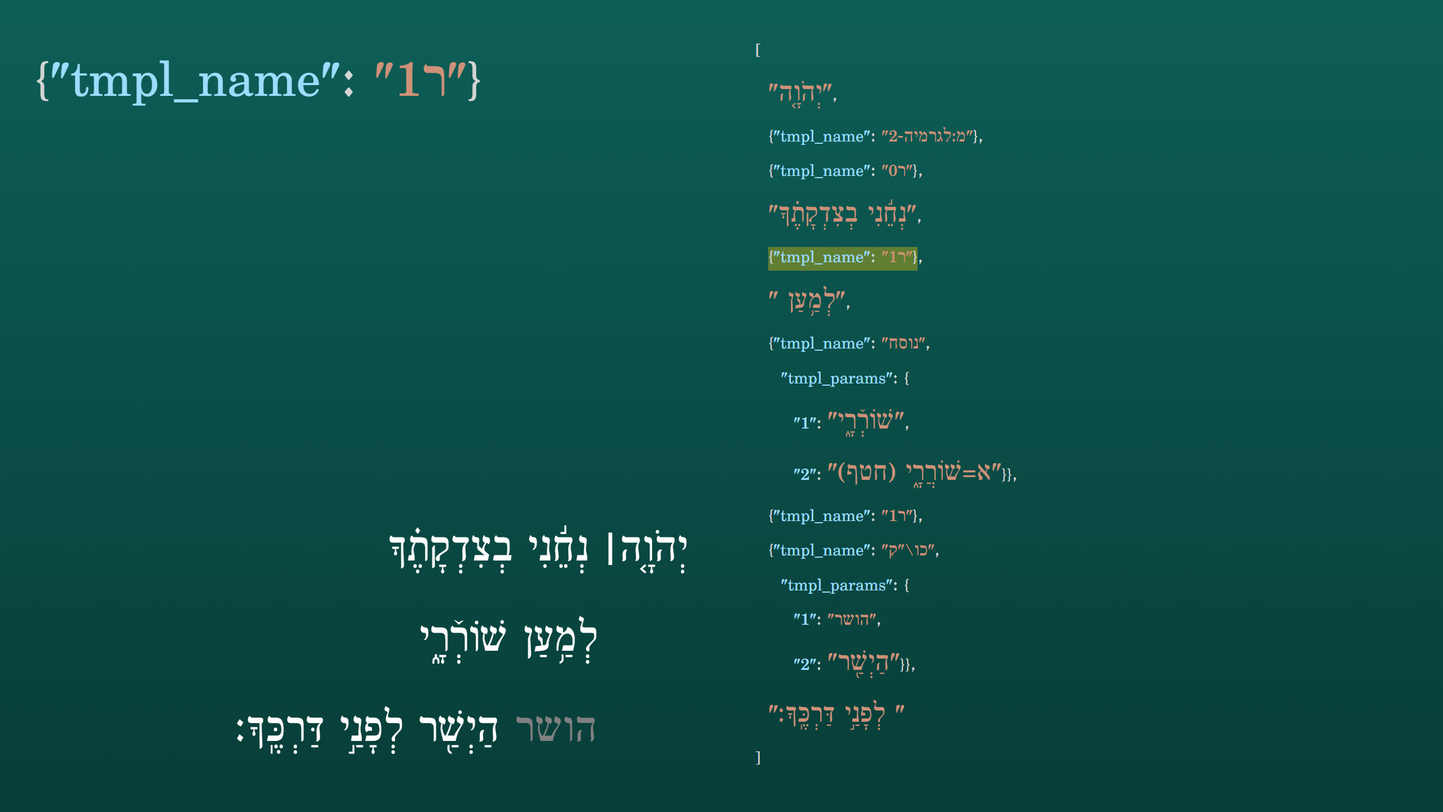
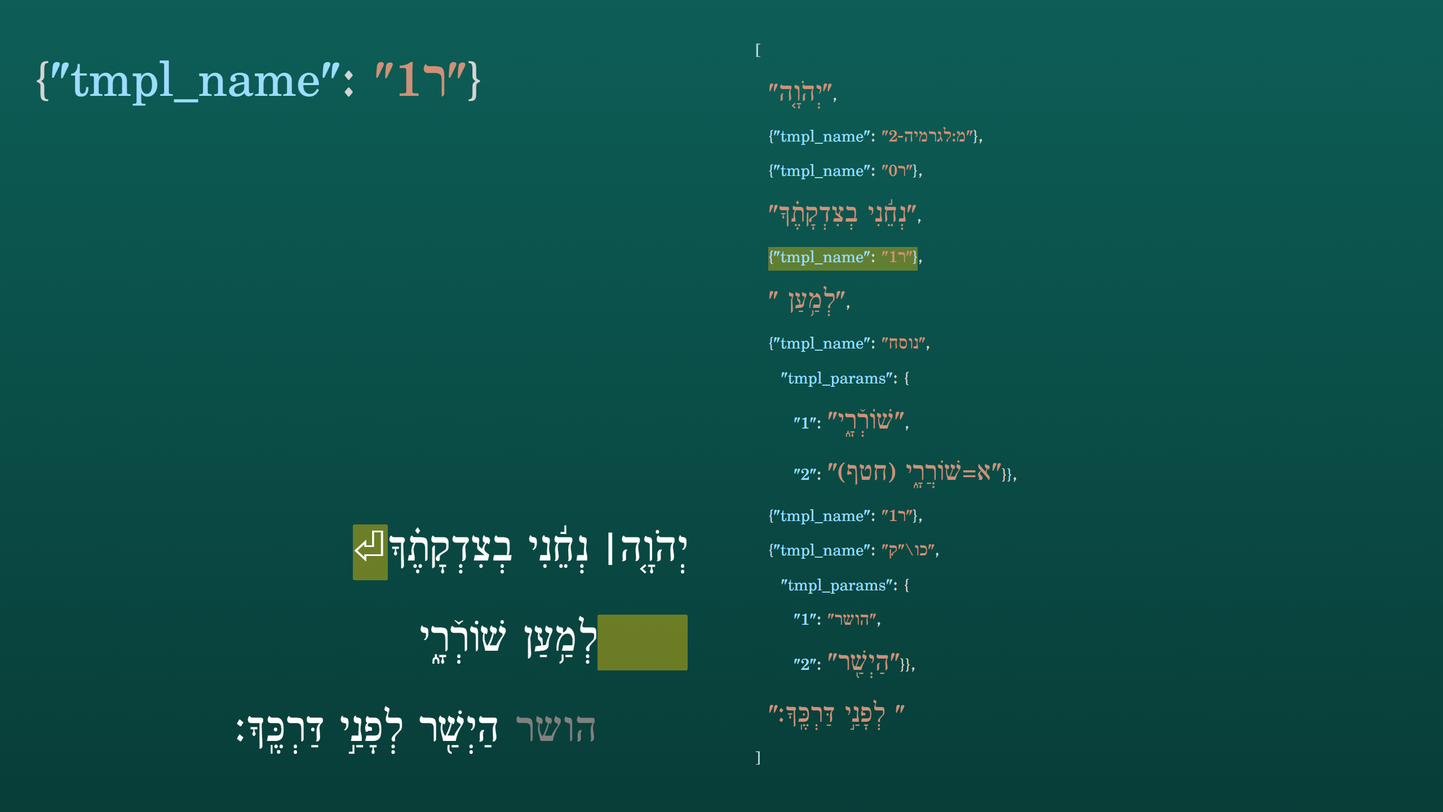
slide: add companion_raw_replacements; highlight ⏎ and indent at step 5
Add a companion_raw_replacements mechanism to json_snippet_browser so
a multistep slide spec can apply raw HTML substitutions to the companion
HTML for a specific step.

Use it in the Psalm 5:9 mpplus deck: the ר1 step (step 5) now highlights
the return symbol (⏎) and the indent span, making the line-break template
visible to the viewer.

Also update the companion HTML across all steps to use an indent span
(&emsp;&emsp;) for the second line instead of padding-right, and add a
hidden return-sym span at the end of the first line. Regenerate the
interactive HTML and the step-5 PNG accordingly.

Changed region(s): [[0.4062, 0.75, 0.5, 0.8438], [0.2188, 0.625, 0.2812, 0.7188]]

diff --git a/misc/mam-is-a-dataset/img-sources/slide-psalm-5v9-mpplus-interactive.html b/misc/mam-is-a-dataset/img-sources/slide-psalm-5v9-mpplus-interactive.html
@@ -59,8 +59,8 @@
 </style>
 </head>
 <body>
-<div class="step" data-step="0"><div class="col"><div class="companion-html"><div>יְהֹוָ֤ה&thinsp;<span style="font-weight: bold;">׀</span>&nbsp;נְחֵ֬נִי בְצִדְקָתֶ֗ךָ</div>
-<div style="padding-right: 2em;">לְמַ֥עַן שׁוֹרְﬞרָ֑י</div>
+<div class="step" data-step="0"><div class="col"><div class="companion-html"><div>יְהֹוָ֤ה&thinsp;<span style="font-weight: bold;">׀</span>&nbsp;נְחֵ֬נִי בְצִדְקָתֶ֗ךָ<span class="return-sym" style="display:none;">⏎</span></div>
+<div><span class="indent">&emsp;&emsp;</span>לְמַ֥עַן שׁוֹרְﬞרָ֑י</div>
 <div style="padding-right: 2em;"><span style="color:Gray;">הושר</span> הַיְשַׁ֖ר לְפָנַ֣י דַּרְכֶּֽךָ׃</div></div></div><div class="col" style="justify-content:flex-start"><pre><span style="color:#d4d4d4;">[</span><span style="color:#d4d4d4;">
   </span><bdi><span style="color:#ce9178; font-size:51px; font-feature-settings:'ss03'">"יְהֹוָ֤ה"</span></bdi><span style="color:#d4d4d4;">,</span><span style="color:#d4d4d4;">
   </span><span style="color:#d4d4d4;">{</span><span style="color:#9cdcfe;">"tmpl_name"</span><span style="color:#d4d4d4;">:</span><span style="color:#d4d4d4;"> </span><bdi><span style="color:#ce9178;">"מ:לגרמיה-2"</span></bdi><span style="color:#d4d4d4;">},</span><span style="color:#d4d4d4;">
@@ -80,8 +80,8 @@
   </span><bdi><span style="color:#ce9178; font-size:51px; font-feature-settings:'ss03'">" לְפָנַ֣י דַּרְכֶּֽךָ׃"</span></bdi><span style="color:#d4d4d4;">
 </span><span style="color:#d4d4d4;">]</span><span style="color:#d4d4d4;">
 </span></pre></div></div>
-<div class="step" data-step="1"><div class="col" style="flex:2;flex-direction:column;justify-content:space-between;align-items:flex-start"><pre><bdi><span style="color:#ce9178; font-size:102px; font-feature-settings:'ss03'">"יְהֹוָ֤ה"</span></bdi></pre><div class="companion-html"><div><span class="hl">יְהֹוָ֤ה</span>&thinsp;<span style="font-weight: bold;">׀</span>&nbsp;נְחֵ֬נִי בְצִדְקָתֶ֗ךָ</div>
-<div style="padding-right: 2em;">לְמַ֥עַן שׁוֹרְﬞרָ֑י</div>
+<div class="step" data-step="1"><div class="col" style="flex:2;flex-direction:column;justify-content:space-between;align-items:flex-start"><pre><bdi><span style="color:#ce9178; font-size:102px; font-feature-settings:'ss03'">"יְהֹוָ֤ה"</span></bdi></pre><div class="companion-html"><div><span class="hl">יְהֹוָ֤ה</span>&thinsp;<span style="font-weight: bold;">׀</span>&nbsp;נְחֵ֬נִי בְצִדְקָתֶ֗ךָ<span class="return-sym" style="display:none;">⏎</span></div>
+<div><span class="indent">&emsp;&emsp;</span>לְמַ֥עַן שׁוֹרְﬞרָ֑י</div>
 <div style="padding-right: 2em;"><span style="color:Gray;">הושר</span> הַיְשַׁ֖ר לְפָנַ֣י דַּרְכֶּֽךָ׃</div></div></div><div class="col" style="flex:2;justify-content:flex-start"><pre><span style="color:#d4d4d4;">[</span><span style="color:#d4d4d4;">
   </span><bdi><span style="color:#ce9178; background-color:rgba(255,210,0,0.35); font-size:51px; font-feature-settings:'ss03'">"יְהֹוָ֤ה"</span></bdi><span style="color:#d4d4d4;">,</span><span style="color:#d4d4d4;">
   </span><span style="color:#d4d4d4;">{</span><span style="color:#9cdcfe;">"tmpl_name"</span><span style="color:#d4d4d4;">:</span><span style="color:#d4d4d4;"> </span><bdi><span style="color:#ce9178;">"מ:לגרמיה-2"</span></bdi><span style="color:#d4d4d4;">},</span><span style="color:#d4d4d4;">
@@ -101,8 +101,8 @@
   </span><bdi><span style="color:#ce9178; font-size:51px; font-feature-settings:'ss03'">" לְפָנַ֣י דַּרְכֶּֽךָ׃"</span></bdi><span style="color:#d4d4d4;">
 </span><span style="color:#d4d4d4;">]</span><span style="color:#d4d4d4;">
 </span></pre></div></div>
-<div class="step" data-step="2"><div class="col" style="flex:2;flex-direction:column;justify-content:space-between;align-items:flex-start"><pre><span style="color:#d4d4d4; font-size:102px; font-feature-settings:'ss03'">{</span><span style="color:#9cdcfe; font-size:102px; font-feature-settings:'ss03'">"tmpl_name"</span><span style="color:#d4d4d4; font-size:102px; font-feature-settings:'ss03'">:</span><span style="color:#d4d4d4; font-size:102px; font-feature-settings:'ss03'"> </span><bdi><span style="color:#ce9178; font-size:102px; font-feature-settings:'ss03'">"מ:לגרמיה-2"</span></bdi><span style="color:#d4d4d4; font-size:102px; font-feature-settings:'ss03'">}</span></pre><div class="companion-html"><div>יְהֹוָ֤ה<span class="hl">&thinsp;<span style="font-weight: bold;">׀</span></span>&nbsp;נְחֵ֬נִי בְצִדְקָתֶ֗ךָ</div>
-<div style="padding-right: 2em;">לְמַ֥עַן שׁוֹרְﬞרָ֑י</div>
+<div class="step" data-step="2"><div class="col" style="flex:2;flex-direction:column;justify-content:space-between;align-items:flex-start"><pre><span style="color:#d4d4d4; font-size:102px; font-feature-settings:'ss03'">{</span><span style="color:#9cdcfe; font-size:102px; font-feature-settings:'ss03'">"tmpl_name"</span><span style="color:#d4d4d4; font-size:102px; font-feature-settings:'ss03'">:</span><span style="color:#d4d4d4; font-size:102px; font-feature-settings:'ss03'"> </span><bdi><span style="color:#ce9178; font-size:102px; font-feature-settings:'ss03'">"מ:לגרמיה-2"</span></bdi><span style="color:#d4d4d4; font-size:102px; font-feature-settings:'ss03'">}</span></pre><div class="companion-html"><div>יְהֹוָ֤ה<span class="hl">&thinsp;<span style="font-weight: bold;">׀</span></span>&nbsp;נְחֵ֬נִי בְצִדְקָתֶ֗ךָ<span class="return-sym" style="display:none;">⏎</span></div>
+<div><span class="indent">&emsp;&emsp;</span>לְמַ֥עַן שׁוֹרְﬞרָ֑י</div>
 <div style="padding-right: 2em;"><span style="color:Gray;">הושר</span> הַיְשַׁ֖ר לְפָנַ֣י דַּרְכֶּֽךָ׃</div></div></div><div class="col" style="flex:2;justify-content:flex-start"><pre><span style="color:#d4d4d4;">[</span><span style="color:#d4d4d4;">
   </span><bdi><span style="color:#ce9178; font-size:51px; font-feature-settings:'ss03'">"יְהֹוָ֤ה"</span></bdi><span style="color:#d4d4d4;">,</span><span style="color:#d4d4d4;">
   </span><span style="color:#d4d4d4; background-color:rgba(255,210,0,0.35);">{</span><span style="color:#9cdcfe; background-color:rgba(255,210,0,0.35);">"tmpl_name"</span><span style="color:#d4d4d4; background-color:rgba(255,210,0,0.35);">:</span><span style="color:#d4d4d4; background-color:rgba(255,210,0,0.35);"> </span><bdi><span style="color:#ce9178; background-color:rgba(255,210,0,0.35);">"מ:לגרמיה-2"</span></bdi><span style="color:#d4d4d4; background-color:rgba(255,210,0,0.35);">}</span><span style="color:#d4d4d4;">,</span><span style="color:#d4d4d4;">
@@ -122,8 +122,8 @@
   </span><bdi><span style="color:#ce9178; font-size:51px; font-feature-settings:'ss03'">" לְפָנַ֣י דַּרְכֶּֽךָ׃"</span></bdi><span style="color:#d4d4d4;">
 </span><span style="color:#d4d4d4;">]</span><span style="color:#d4d4d4;">
 </span></pre></div></div>
-<div class="step" data-step="3"><div class="col" style="flex:2;flex-direction:column;justify-content:space-between;align-items:flex-start"><pre><span style="color:#d4d4d4; font-size:102px; font-feature-settings:'ss03'">{</span><span style="color:#9cdcfe; font-size:102px; font-feature-settings:'ss03'">"tmpl_name"</span><span style="color:#d4d4d4; font-size:102px; font-feature-settings:'ss03'">:</span><span style="color:#d4d4d4; font-size:102px; font-feature-settings:'ss03'"> </span><bdi><span style="color:#ce9178; font-size:102px; font-feature-settings:'ss03'">"ר0"</span></bdi><span style="color:#d4d4d4; font-size:102px; font-feature-settings:'ss03'">}</span></pre><div class="companion-html"><div>יְהֹוָ֤ה&thinsp;<span style="font-weight: bold;">׀</span><span class="hl">&nbsp;</span>נְחֵ֬נִי בְצִדְקָתֶ֗ךָ</div>
-<div style="padding-right: 2em;">לְמַ֥עַן שׁוֹרְﬞרָ֑י</div>
+<div class="step" data-step="3"><div class="col" style="flex:2;flex-direction:column;justify-content:space-between;align-items:flex-start"><pre><span style="color:#d4d4d4; font-size:102px; font-feature-settings:'ss03'">{</span><span style="color:#9cdcfe; font-size:102px; font-feature-settings:'ss03'">"tmpl_name"</span><span style="color:#d4d4d4; font-size:102px; font-feature-settings:'ss03'">:</span><span style="color:#d4d4d4; font-size:102px; font-feature-settings:'ss03'"> </span><bdi><span style="color:#ce9178; font-size:102px; font-feature-settings:'ss03'">"ר0"</span></bdi><span style="color:#d4d4d4; font-size:102px; font-feature-settings:'ss03'">}</span></pre><div class="companion-html"><div>יְהֹוָ֤ה&thinsp;<span style="font-weight: bold;">׀</span><span class="hl">&nbsp;</span>נְחֵ֬נִי בְצִדְקָתֶ֗ךָ<span class="return-sym" style="display:none;">⏎</span></div>
+<div><span class="indent">&emsp;&emsp;</span>לְמַ֥עַן שׁוֹרְﬞרָ֑י</div>
 <div style="padding-right: 2em;"><span style="color:Gray;">הושר</span> הַיְשַׁ֖ר לְפָנַ֣י דַּרְכֶּֽךָ׃</div></div></div><div class="col" style="flex:2;justify-content:flex-start"><pre><span style="color:#d4d4d4;">[</span><span style="color:#d4d4d4;">
   </span><bdi><span style="color:#ce9178; font-size:51px; font-feature-settings:'ss03'">"יְהֹוָ֤ה"</span></bdi><span style="color:#d4d4d4;">,</span><span style="color:#d4d4d4;">
   </span><span style="color:#d4d4d4;">{</span><span style="color:#9cdcfe;">"tmpl_name"</span><span style="color:#d4d4d4;">:</span><span style="color:#d4d4d4;"> </span><bdi><span style="color:#ce9178;">"מ:לגרמיה-2"</span></bdi><span style="color:#d4d4d4;">},</span><span style="color:#d4d4d4;">
@@ -143,8 +143,8 @@
   </span><bdi><span style="color:#ce9178; font-size:51px; font-feature-settings:'ss03'">" לְפָנַ֣י דַּרְכֶּֽךָ׃"</span></bdi><span style="color:#d4d4d4;">
 </span><span style="color:#d4d4d4;">]</span><span style="color:#d4d4d4;">
 </span></pre></div></div>
-<div class="step" data-step="4"><div class="col" style="flex:2;flex-direction:column;justify-content:space-between;align-items:flex-start"><pre><bdi><span style="color:#ce9178; font-size:102px; font-feature-settings:'ss03'">"נְחֵ֬נִי בְצִדְקָתֶ֗ךָ"</span></bdi></pre><div class="companion-html"><div>יְהֹוָ֤ה&thinsp;<span style="font-weight: bold;">׀</span>&nbsp;<span class="hl">נְחֵ֬נִי בְצִדְקָתֶ֗ךָ</span></div>
-<div style="padding-right: 2em;">לְמַ֥עַן שׁוֹרְﬞרָ֑י</div>
+<div class="step" data-step="4"><div class="col" style="flex:2;flex-direction:column;justify-content:space-between;align-items:flex-start"><pre><bdi><span style="color:#ce9178; font-size:102px; font-feature-settings:'ss03'">"נְחֵ֬נִי בְצִדְקָתֶ֗ךָ"</span></bdi></pre><div class="companion-html"><div>יְהֹוָ֤ה&thinsp;<span style="font-weight: bold;">׀</span>&nbsp;<span class="hl">נְחֵ֬נִי בְצִדְקָתֶ֗ךָ</span><span class="return-sym" style="display:none;">⏎</span></div>
+<div><span class="indent">&emsp;&emsp;</span>לְמַ֥עַן שׁוֹרְﬞרָ֑י</div>
 <div style="padding-right: 2em;"><span style="color:Gray;">הושר</span> הַיְשַׁ֖ר לְפָנַ֣י דַּרְכֶּֽךָ׃</div></div></div><div class="col" style="flex:2;justify-content:flex-start"><pre><span style="color:#d4d4d4;">[</span><span style="color:#d4d4d4;">
   </span><bdi><span style="color:#ce9178; font-size:51px; font-feature-settings:'ss03'">"יְהֹוָ֤ה"</span></bdi><span style="color:#d4d4d4;">,</span><span style="color:#d4d4d4;">
   </span><span style="color:#d4d4d4;">{</span><span style="color:#9cdcfe;">"tmpl_name"</span><span style="color:#d4d4d4;">:</span><span style="color:#d4d4d4;"> </span><bdi><span style="color:#ce9178;">"מ:לגרמיה-2"</span></bdi><span style="color:#d4d4d4;">},</span><span style="color:#d4d4d4;">
@@ -164,8 +164,8 @@
   </span><bdi><span style="color:#ce9178; font-size:51px; font-feature-settings:'ss03'">" לְפָנַ֣י דַּרְכֶּֽךָ׃"</span></bdi><span style="color:#d4d4d4;">
 </span><span style="color:#d4d4d4;">]</span><span style="color:#d4d4d4;">
 </span></pre></div></div>
-<div class="step" data-step="5"><div class="col" style="flex:2;flex-direction:column;justify-content:space-between;align-items:flex-start"><pre><span style="color:#d4d4d4; font-size:102px; font-feature-settings:'ss03'">{</span><span style="color:#9cdcfe; font-size:102px; font-feature-settings:'ss03'">"tmpl_name"</span><span style="color:#d4d4d4; font-size:102px; font-feature-settings:'ss03'">:</span><span style="color:#d4d4d4; font-size:102px; font-feature-settings:'ss03'"> </span><bdi><span style="color:#ce9178; font-size:102px; font-feature-settings:'ss03'">"ר1"</span></bdi><span style="color:#d4d4d4; font-size:102px; font-feature-settings:'ss03'">}</span></pre><div class="companion-html"><div>יְהֹוָ֤ה&thinsp;<span style="font-weight: bold;">׀</span>&nbsp;נְחֵ֬נִי בְצִדְקָתֶ֗ךָ</div>
-<div style="padding-right: 2em;">לְמַ֥עַן שׁוֹרְﬞרָ֑י</div>
+<div class="step" data-step="5"><div class="col" style="flex:2;flex-direction:column;justify-content:space-between;align-items:flex-start"><pre><span style="color:#d4d4d4; font-size:102px; font-feature-settings:'ss03'">{</span><span style="color:#9cdcfe; font-size:102px; font-feature-settings:'ss03'">"tmpl_name"</span><span style="color:#d4d4d4; font-size:102px; font-feature-settings:'ss03'">:</span><span style="color:#d4d4d4; font-size:102px; font-feature-settings:'ss03'"> </span><bdi><span style="color:#ce9178; font-size:102px; font-feature-settings:'ss03'">"ר1"</span></bdi><span style="color:#d4d4d4; font-size:102px; font-feature-settings:'ss03'">}</span></pre><div class="companion-html"><div>יְהֹוָ֤ה&thinsp;<span style="font-weight: bold;">׀</span>&nbsp;נְחֵ֬נִי בְצִדְקָתֶ֗ךָ<span class="return-sym hl">⏎</span></div>
+<div><span class="indent hl">&emsp;&emsp;</span>לְמַ֥עַן שׁוֹרְﬞרָ֑י</div>
 <div style="padding-right: 2em;"><span style="color:Gray;">הושר</span> הַיְשַׁ֖ר לְפָנַ֣י דַּרְכֶּֽךָ׃</div></div></div><div class="col" style="flex:2;justify-content:flex-start"><pre><span style="color:#d4d4d4;">[</span><span style="color:#d4d4d4;">
   </span><bdi><span style="color:#ce9178; font-size:51px; font-feature-settings:'ss03'">"יְהֹוָ֤ה"</span></bdi><span style="color:#d4d4d4;">,</span><span style="color:#d4d4d4;">
   </span><span style="color:#d4d4d4;">{</span><span style="color:#9cdcfe;">"tmpl_name"</span><span style="color:#d4d4d4;">:</span><span style="color:#d4d4d4;"> </span><bdi><span style="color:#ce9178;">"מ:לגרמיה-2"</span></bdi><span style="color:#d4d4d4;">},</span><span style="color:#d4d4d4;">
@@ -185,8 +185,8 @@
   </span><bdi><span style="color:#ce9178; font-size:51px; font-feature-settings:'ss03'">" לְפָנַ֣י דַּרְכֶּֽךָ׃"</span></bdi><span style="color:#d4d4d4;">
 </span><span style="color:#d4d4d4;">]</span><span style="color:#d4d4d4;">
 </span></pre></div></div>
-<div class="step" data-step="6"><div class="col" style="flex:2;flex-direction:column;justify-content:space-between;align-items:flex-start"><pre><bdi><span style="color:#ce9178; font-size:102px; font-feature-settings:'ss03'">"לְמַ֥עַן "</span></bdi></pre><div class="companion-html"><div>יְהֹוָ֤ה&thinsp;<span style="font-weight: bold;">׀</span>&nbsp;נְחֵ֬נִי בְצִדְקָתֶ֗ךָ</div>
-<div style="padding-right: 2em;"><span class="hl">לְמַ֥עַן </span>שׁוֹרְﬞרָ֑י</div>
+<div class="step" data-step="6"><div class="col" style="flex:2;flex-direction:column;justify-content:space-between;align-items:flex-start"><pre><bdi><span style="color:#ce9178; font-size:102px; font-feature-settings:'ss03'">"לְמַ֥עַן "</span></bdi></pre><div class="companion-html"><div>יְהֹוָ֤ה&thinsp;<span style="font-weight: bold;">׀</span>&nbsp;נְחֵ֬נִי בְצִדְקָתֶ֗ךָ<span class="return-sym" style="display:none;">⏎</span></div>
+<div><span class="indent">&emsp;&emsp;</span><span class="hl">לְמַ֥עַן </span>שׁוֹרְﬞרָ֑י</div>
 <div style="padding-right: 2em;"><span style="color:Gray;">הושר</span> הַיְשַׁ֖ר לְפָנַ֣י דַּרְכֶּֽךָ׃</div></div></div><div class="col" style="flex:2;justify-content:flex-start"><pre><span style="color:#d4d4d4;">[</span><span style="color:#d4d4d4;">
   </span><bdi><span style="color:#ce9178; font-size:51px; font-feature-settings:'ss03'">"יְהֹוָ֤ה"</span></bdi><span style="color:#d4d4d4;">,</span><span style="color:#d4d4d4;">
   </span><span style="color:#d4d4d4;">{</span><span style="color:#9cdcfe;">"tmpl_name"</span><span style="color:#d4d4d4;">:</span><span style="color:#d4d4d4;"> </span><bdi><span style="color:#ce9178;">"מ:לגרמיה-2"</span></bdi><span style="color:#d4d4d4;">},</span><span style="color:#d4d4d4;">
@@ -209,8 +209,8 @@
 <div class="step" data-step="7"><div class="col" style="flex:2;flex-direction:column;justify-content:space-between;align-items:flex-start"><pre><span style="color:#d4d4d4; font-size:102px; font-feature-settings:'ss03'">{</span><span style="color:#9cdcfe; font-size:102px; font-feature-settings:'ss03'">"tmpl_name"</span><span style="color:#d4d4d4; font-size:102px; font-feature-settings:'ss03'">:</span><span style="color:#d4d4d4; font-size:102px; font-feature-settings:'ss03'"> </span><bdi><span style="color:#ce9178; font-size:102px; font-feature-settings:'ss03'">"נוסח"</span></bdi><span style="color:#d4d4d4; font-size:102px; font-feature-settings:'ss03'">,</span><span style="color:#d4d4d4; font-size:102px; font-feature-settings:'ss03'">
     </span><span style="color:#9cdcfe; font-size:102px; font-feature-settings:'ss03'">"tmpl_params"</span><span style="color:#d4d4d4; font-size:102px; font-feature-settings:'ss03'">:</span><span style="color:#d4d4d4; font-size:102px; font-feature-settings:'ss03'"> </span><span style="color:#d4d4d4; font-size:102px; font-feature-settings:'ss03'">{</span><span style="color:#d4d4d4; font-size:102px; font-feature-settings:'ss03'">
       </span><span style="color:#9cdcfe; font-size:102px; font-feature-settings:'ss03'">"1"</span><span style="color:#d4d4d4; font-size:102px; font-feature-settings:'ss03'">:</span><span style="color:#d4d4d4; font-size:102px; font-feature-settings:'ss03'"> </span><bdi><span style="color:#ce9178; font-size:102px; font-feature-settings:'ss03'">"שׁוֹרְﬞרָ֑י"</span></bdi><span style="color:#d4d4d4; font-size:102px; font-feature-settings:'ss03'">,</span><span style="color:#d4d4d4; font-size:102px; font-feature-settings:'ss03'">
-      </span><span style="color:#9cdcfe; font-size:102px; font-feature-settings:'ss03'">"2"</span><span style="color:#d4d4d4; font-size:102px; font-feature-settings:'ss03'">:</span><span style="color:#d4d4d4; font-size:102px; font-feature-settings:'ss03'"> </span><bdi><span style="color:#ce9178; font-size:102px; font-feature-settings:'ss03'">"א=שׁוֹרֲרָ֑י (חטף)"</span></bdi><span style="color:#d4d4d4; font-size:102px; font-feature-settings:'ss03'">}}</span></pre><div class="companion-html"><div>יְהֹוָ֤ה&thinsp;<span style="font-weight: bold;">׀</span>&nbsp;נְחֵ֬נִי בְצִדְקָתֶ֗ךָ</div>
-<div style="padding-right: 2em;">לְמַ֥עַן <span class="hl">שׁוֹרְﬞרָ֑י</span></div>
+      </span><span style="color:#9cdcfe; font-size:102px; font-feature-settings:'ss03'">"2"</span><span style="color:#d4d4d4; font-size:102px; font-feature-settings:'ss03'">:</span><span style="color:#d4d4d4; font-size:102px; font-feature-settings:'ss03'"> </span><bdi><span style="color:#ce9178; font-size:102px; font-feature-settings:'ss03'">"א=שׁוֹרֲרָ֑י (חטף)"</span></bdi><span style="color:#d4d4d4; font-size:102px; font-feature-settings:'ss03'">}}</span></pre><div class="companion-html"><div>יְהֹוָ֤ה&thinsp;<span style="font-weight: bold;">׀</span>&nbsp;נְחֵ֬נִי בְצִדְקָתֶ֗ךָ<span class="return-sym" style="display:none;">⏎</span></div>
+<div><span class="indent">&emsp;&emsp;</span>לְמַ֥עַן <span class="hl">שׁוֹרְﬞרָ֑י</span></div>
 <div style="padding-right: 2em;"><span style="color:Gray;">הושר</span> הַיְשַׁ֖ר לְפָנַ֣י דַּרְכֶּֽךָ׃</div></div></div><div class="col" style="flex:2;justify-content:flex-start"><pre><span style="color:#d4d4d4;">[</span><span style="color:#d4d4d4;">
   </span><bdi><span style="color:#ce9178; font-size:51px; font-feature-settings:'ss03'">"יְהֹוָ֤ה"</span></bdi><span style="color:#d4d4d4;">,</span><span style="color:#d4d4d4;">
   </span><span style="color:#d4d4d4;">{</span><span style="color:#9cdcfe;">"tmpl_name"</span><span style="color:#d4d4d4;">:</span><span style="color:#d4d4d4;"> </span><bdi><span style="color:#ce9178;">"מ:לגרמיה-2"</span></bdi><span style="color:#d4d4d4;">},</span><span style="color:#d4d4d4;">
@@ -230,8 +230,8 @@
   </span><bdi><span style="color:#ce9178; font-size:51px; font-feature-settings:'ss03'">" לְפָנַ֣י דַּרְכֶּֽךָ׃"</span></bdi><span style="color:#d4d4d4;">
 </span><span style="color:#d4d4d4;">]</span><span style="color:#d4d4d4;">
 </span></pre></div></div>
-<div class="step" data-step="8"><div class="col" style="flex:2;flex-direction:column;justify-content:space-between;align-items:flex-start"><pre><span style="color:#d4d4d4; font-size:102px; font-feature-settings:'ss03'">{</span><span style="color:#9cdcfe; font-size:102px; font-feature-settings:'ss03'">"tmpl_name"</span><span style="color:#d4d4d4; font-size:102px; font-feature-settings:'ss03'">:</span><span style="color:#d4d4d4; font-size:102px; font-feature-settings:'ss03'"> </span><bdi><span style="color:#ce9178; font-size:102px; font-feature-settings:'ss03'">"ר1"</span></bdi><span style="color:#d4d4d4; font-size:102px; font-feature-settings:'ss03'">}</span></pre><div class="companion-html"><div>יְהֹוָ֤ה&thinsp;<span style="font-weight: bold;">׀</span>&nbsp;נְחֵ֬נִי בְצִדְקָתֶ֗ךָ</div>
-<div style="padding-right: 2em;">לְמַ֥עַן שׁוֹרְﬞרָ֑י</div>
+<div class="step" data-step="8"><div class="col" style="flex:2;flex-direction:column;justify-content:space-between;align-items:flex-start"><pre><span style="color:#d4d4d4; font-size:102px; font-feature-settings:'ss03'">{</span><span style="color:#9cdcfe; font-size:102px; font-feature-settings:'ss03'">"tmpl_name"</span><span style="color:#d4d4d4; font-size:102px; font-feature-settings:'ss03'">:</span><span style="color:#d4d4d4; font-size:102px; font-feature-settings:'ss03'"> </span><bdi><span style="color:#ce9178; font-size:102px; font-feature-settings:'ss03'">"ר1"</span></bdi><span style="color:#d4d4d4; font-size:102px; font-feature-settings:'ss03'">}</span></pre><div class="companion-html"><div>יְהֹוָ֤ה&thinsp;<span style="font-weight: bold;">׀</span>&nbsp;נְחֵ֬נִי בְצִדְקָתֶ֗ךָ<span class="return-sym" style="display:none;">⏎</span></div>
+<div><span class="indent">&emsp;&emsp;</span>לְמַ֥עַן שׁוֹרְﬞרָ֑י</div>
 <div style="padding-right: 2em;"><span style="color:Gray;">הושר</span> הַיְשַׁ֖ר לְפָנַ֣י דַּרְכֶּֽךָ׃</div></div></div><div class="col" style="flex:2;justify-content:flex-start"><pre><span style="color:#d4d4d4;">[</span><span style="color:#d4d4d4;">
   </span><bdi><span style="color:#ce9178; font-size:51px; font-feature-settings:'ss03'">"יְהֹוָ֤ה"</span></bdi><span style="color:#d4d4d4;">,</span><span style="color:#d4d4d4;">
   </span><span style="color:#d4d4d4;">{</span><span style="color:#9cdcfe;">"tmpl_name"</span><span style="color:#d4d4d4;">:</span><span style="color:#d4d4d4;"> </span><bdi><span style="color:#ce9178;">"מ:לגרמיה-2"</span></bdi><span style="color:#d4d4d4;">},</span><span style="color:#d4d4d4;">
@@ -254,8 +254,8 @@
 <div class="step" data-step="9"><div class="col" style="flex:2;flex-direction:column;justify-content:space-between;align-items:flex-start"><pre><span style="color:#d4d4d4; font-size:102px; font-feature-settings:'ss03'">{</span><span style="color:#9cdcfe; font-size:102px; font-feature-settings:'ss03'">"tmpl_name"</span><span style="color:#d4d4d4; font-size:102px; font-feature-settings:'ss03'">:</span><span style="color:#d4d4d4; font-size:102px; font-feature-settings:'ss03'"> </span><bdi><span style="color:#ce9178; font-size:102px; font-feature-settings:'ss03'">"כו\"ק"</span></bdi><span style="color:#d4d4d4; font-size:102px; font-feature-settings:'ss03'">,</span><span style="color:#d4d4d4; font-size:102px; font-feature-settings:'ss03'">
     </span><span style="color:#9cdcfe; font-size:102px; font-feature-settings:'ss03'">"tmpl_params"</span><span style="color:#d4d4d4; font-size:102px; font-feature-settings:'ss03'">:</span><span style="color:#d4d4d4; font-size:102px; font-feature-settings:'ss03'"> </span><span style="color:#d4d4d4; font-size:102px; font-feature-settings:'ss03'">{</span><span style="color:#d4d4d4; font-size:102px; font-feature-settings:'ss03'">
       </span><span style="color:#9cdcfe; font-size:102px; font-feature-settings:'ss03'">"1"</span><span style="color:#d4d4d4; font-size:102px; font-feature-settings:'ss03'">:</span><span style="color:#d4d4d4; font-size:102px; font-feature-settings:'ss03'"> </span><bdi><span style="color:#ce9178; font-size:102px; font-feature-settings:'ss03'">"הושר"</span></bdi><span style="color:#d4d4d4; font-size:102px; font-feature-settings:'ss03'">,</span><span style="color:#d4d4d4; font-size:102px; font-feature-settings:'ss03'">
-      </span><span style="color:#9cdcfe; font-size:102px; font-feature-settings:'ss03'">"2"</span><span style="color:#d4d4d4; font-size:102px; font-feature-settings:'ss03'">:</span><span style="color:#d4d4d4; font-size:102px; font-feature-settings:'ss03'"> </span><bdi><span style="color:#ce9178; font-size:102px; font-feature-settings:'ss03'">"הַיְשַׁ֖ר"</span></bdi><span style="color:#d4d4d4; font-size:102px; font-feature-settings:'ss03'">}}</span></pre><div class="companion-html"><div>יְהֹוָ֤ה&thinsp;<span style="font-weight: bold;">׀</span>&nbsp;נְחֵ֬נִי בְצִדְקָתֶ֗ךָ</div>
-<div style="padding-right: 2em;">לְמַ֥עַן שׁוֹרְﬞרָ֑י</div>
+      </span><span style="color:#9cdcfe; font-size:102px; font-feature-settings:'ss03'">"2"</span><span style="color:#d4d4d4; font-size:102px; font-feature-settings:'ss03'">:</span><span style="color:#d4d4d4; font-size:102px; font-feature-settings:'ss03'"> </span><bdi><span style="color:#ce9178; font-size:102px; font-feature-settings:'ss03'">"הַיְשַׁ֖ר"</span></bdi><span style="color:#d4d4d4; font-size:102px; font-feature-settings:'ss03'">}}</span></pre><div class="companion-html"><div>יְהֹוָ֤ה&thinsp;<span style="font-weight: bold;">׀</span>&nbsp;נְחֵ֬נִי בְצִדְקָתֶ֗ךָ<span class="return-sym" style="display:none;">⏎</span></div>
+<div><span class="indent">&emsp;&emsp;</span>לְמַ֥עַן שׁוֹרְﬞרָ֑י</div>
 <div style="padding-right: 2em;"><span class="hl"><span style="color:Gray;">הושר</span></span> הַיְשַׁ֖ר לְפָנַ֣י דַּרְכֶּֽךָ׃</div></div></div><div class="col" style="flex:2;justify-content:flex-start"><pre><span style="color:#d4d4d4;">[</span><span style="color:#d4d4d4;">
   </span><bdi><span style="color:#ce9178; font-size:51px; font-feature-settings:'ss03'">"יְהֹוָ֤ה"</span></bdi><span style="color:#d4d4d4;">,</span><span style="color:#d4d4d4;">
   </span><span style="color:#d4d4d4;">{</span><span style="color:#9cdcfe;">"tmpl_name"</span><span style="color:#d4d4d4;">:</span><span style="color:#d4d4d4;"> </span><bdi><span style="color:#ce9178;">"מ:לגרמיה-2"</span></bdi><span style="color:#d4d4d4;">},</span><span style="color:#d4d4d4;">
@@ -275,8 +275,8 @@
   </span><bdi><span style="color:#ce9178; font-size:51px; font-feature-settings:'ss03'">" לְפָנַ֣י דַּרְכֶּֽךָ׃"</span></bdi><span style="color:#d4d4d4;">
 </span><span style="color:#d4d4d4;">]</span><span style="color:#d4d4d4;">
 </span></pre></div></div>
-<div class="step" data-step="10"><div class="col" style="flex:2;flex-direction:column;justify-content:space-between;align-items:flex-start"><pre><bdi><span style="color:#ce9178; font-size:102px; font-feature-settings:'ss03'">" לְפָנַ֣י דַּרְכֶּֽךָ׃"</span></bdi></pre><div class="companion-html"><div>יְהֹוָ֤ה&thinsp;<span style="font-weight: bold;">׀</span>&nbsp;נְחֵ֬נִי בְצִדְקָתֶ֗ךָ</div>
-<div style="padding-right: 2em;">לְמַ֥עַן שׁוֹרְﬞרָ֑י</div>
+<div class="step" data-step="10"><div class="col" style="flex:2;flex-direction:column;justify-content:space-between;align-items:flex-start"><pre><bdi><span style="color:#ce9178; font-size:102px; font-feature-settings:'ss03'">" לְפָנַ֣י דַּרְכֶּֽךָ׃"</span></bdi></pre><div class="companion-html"><div>יְהֹוָ֤ה&thinsp;<span style="font-weight: bold;">׀</span>&nbsp;נְחֵ֬נִי בְצִדְקָתֶ֗ךָ<span class="return-sym" style="display:none;">⏎</span></div>
+<div><span class="indent">&emsp;&emsp;</span>לְמַ֥עַן שׁוֹרְﬞרָ֑י</div>
 <div style="padding-right: 2em;"><span style="color:Gray;">הושר</span> הַיְשַׁ֖ר לְפָנַ֣י דַּרְכֶּֽךָ׃</div></div></div><div class="col" style="flex:2;justify-content:flex-start"><pre><span style="color:#d4d4d4;">[</span><span style="color:#d4d4d4;">
   </span><bdi><span style="color:#ce9178; font-size:51px; font-feature-settings:'ss03'">"יְהֹוָ֤ה"</span></bdi><span style="color:#d4d4d4;">,</span><span style="color:#d4d4d4;">
   </span><span style="color:#d4d4d4;">{</span><span style="color:#9cdcfe;">"tmpl_name"</span><span style="color:#d4d4d4;">:</span><span style="color:#d4d4d4;"> </span><bdi><span style="color:#ce9178;">"מ:לגרמיה-2"</span></bdi><span style="color:#d4d4d4;">},</span><span style="color:#d4d4d4;">

diff --git a/misc/mam-is-a-dataset/img-sources/Psalm 5v9 Wikisource fragment.html b/misc/mam-is-a-dataset/img-sources/Psalm 5v9 Wikisource fragment.html
@@ -1,3 +1,3 @@
-<div>יְהֹוָ֤ה&thinsp;<span style="font-weight: bold;">׀</span>&nbsp;נְחֵ֬נִי בְצִדְקָתֶ֗ךָ</div>
-<div style="padding-right: 2em;">לְמַ֥עַן שׁוֹרְﬞרָ֑י</div>
+<div>יְהֹוָ֤ה&thinsp;<span style="font-weight: bold;">׀</span>&nbsp;נְחֵ֬נִי בְצִדְקָתֶ֗ךָ<span class="return-sym" style="display:none;">⏎</span></div>
+<div><span class="indent">&emsp;&emsp;</span>לְמַ֥עַן שׁוֹרְﬞרָ֑י</div>
 <div style="padding-right: 2em;"><span style="color:Gray;">הושר</span> הַיְשַׁ֖ר לְפָנַ֣י דַּרְכֶּֽךָ׃</div>

diff --git a/py/slide_generator/mam_is_a_dataset.py b/py/slide_generator/mam_is_a_dataset.py
@@ -113,6 +113,16 @@ def render_psalm_5v9_mpplus_steps():
         {
             "highlight_text": '{"tmpl_name": "ר1"}',
             "highlight_occurrence": 1,
+            "companion_raw_replacements": [
+                [
+                    '<span class="return-sym" style="display:none;">⏎</span>',
+                    '<span class="return-sym hl">⏎</span>',
+                ],
+                [
+                    '<span class="indent">',
+                    '<span class="indent hl">',
+                ],
+            ],
         },
         {
             "highlight_text": '"לְמַ֥עַן "',

diff --git a/py/py_misc/json_snippet_browser.py b/py/py_misc/json_snippet_browser.py
@@ -395,6 +395,8 @@ def _build_multistep_html(
             if _hl_key
             else companion_html
         )
+        for _old, _new in spec.get("companion_raw_replacements", []):
+            hl_companion = hl_companion.replace(_old, _new, 1)
         companion_content = f'<div class="companion-html">{hl_companion}</div>'
 
         # Build the step div (hidden by default).
